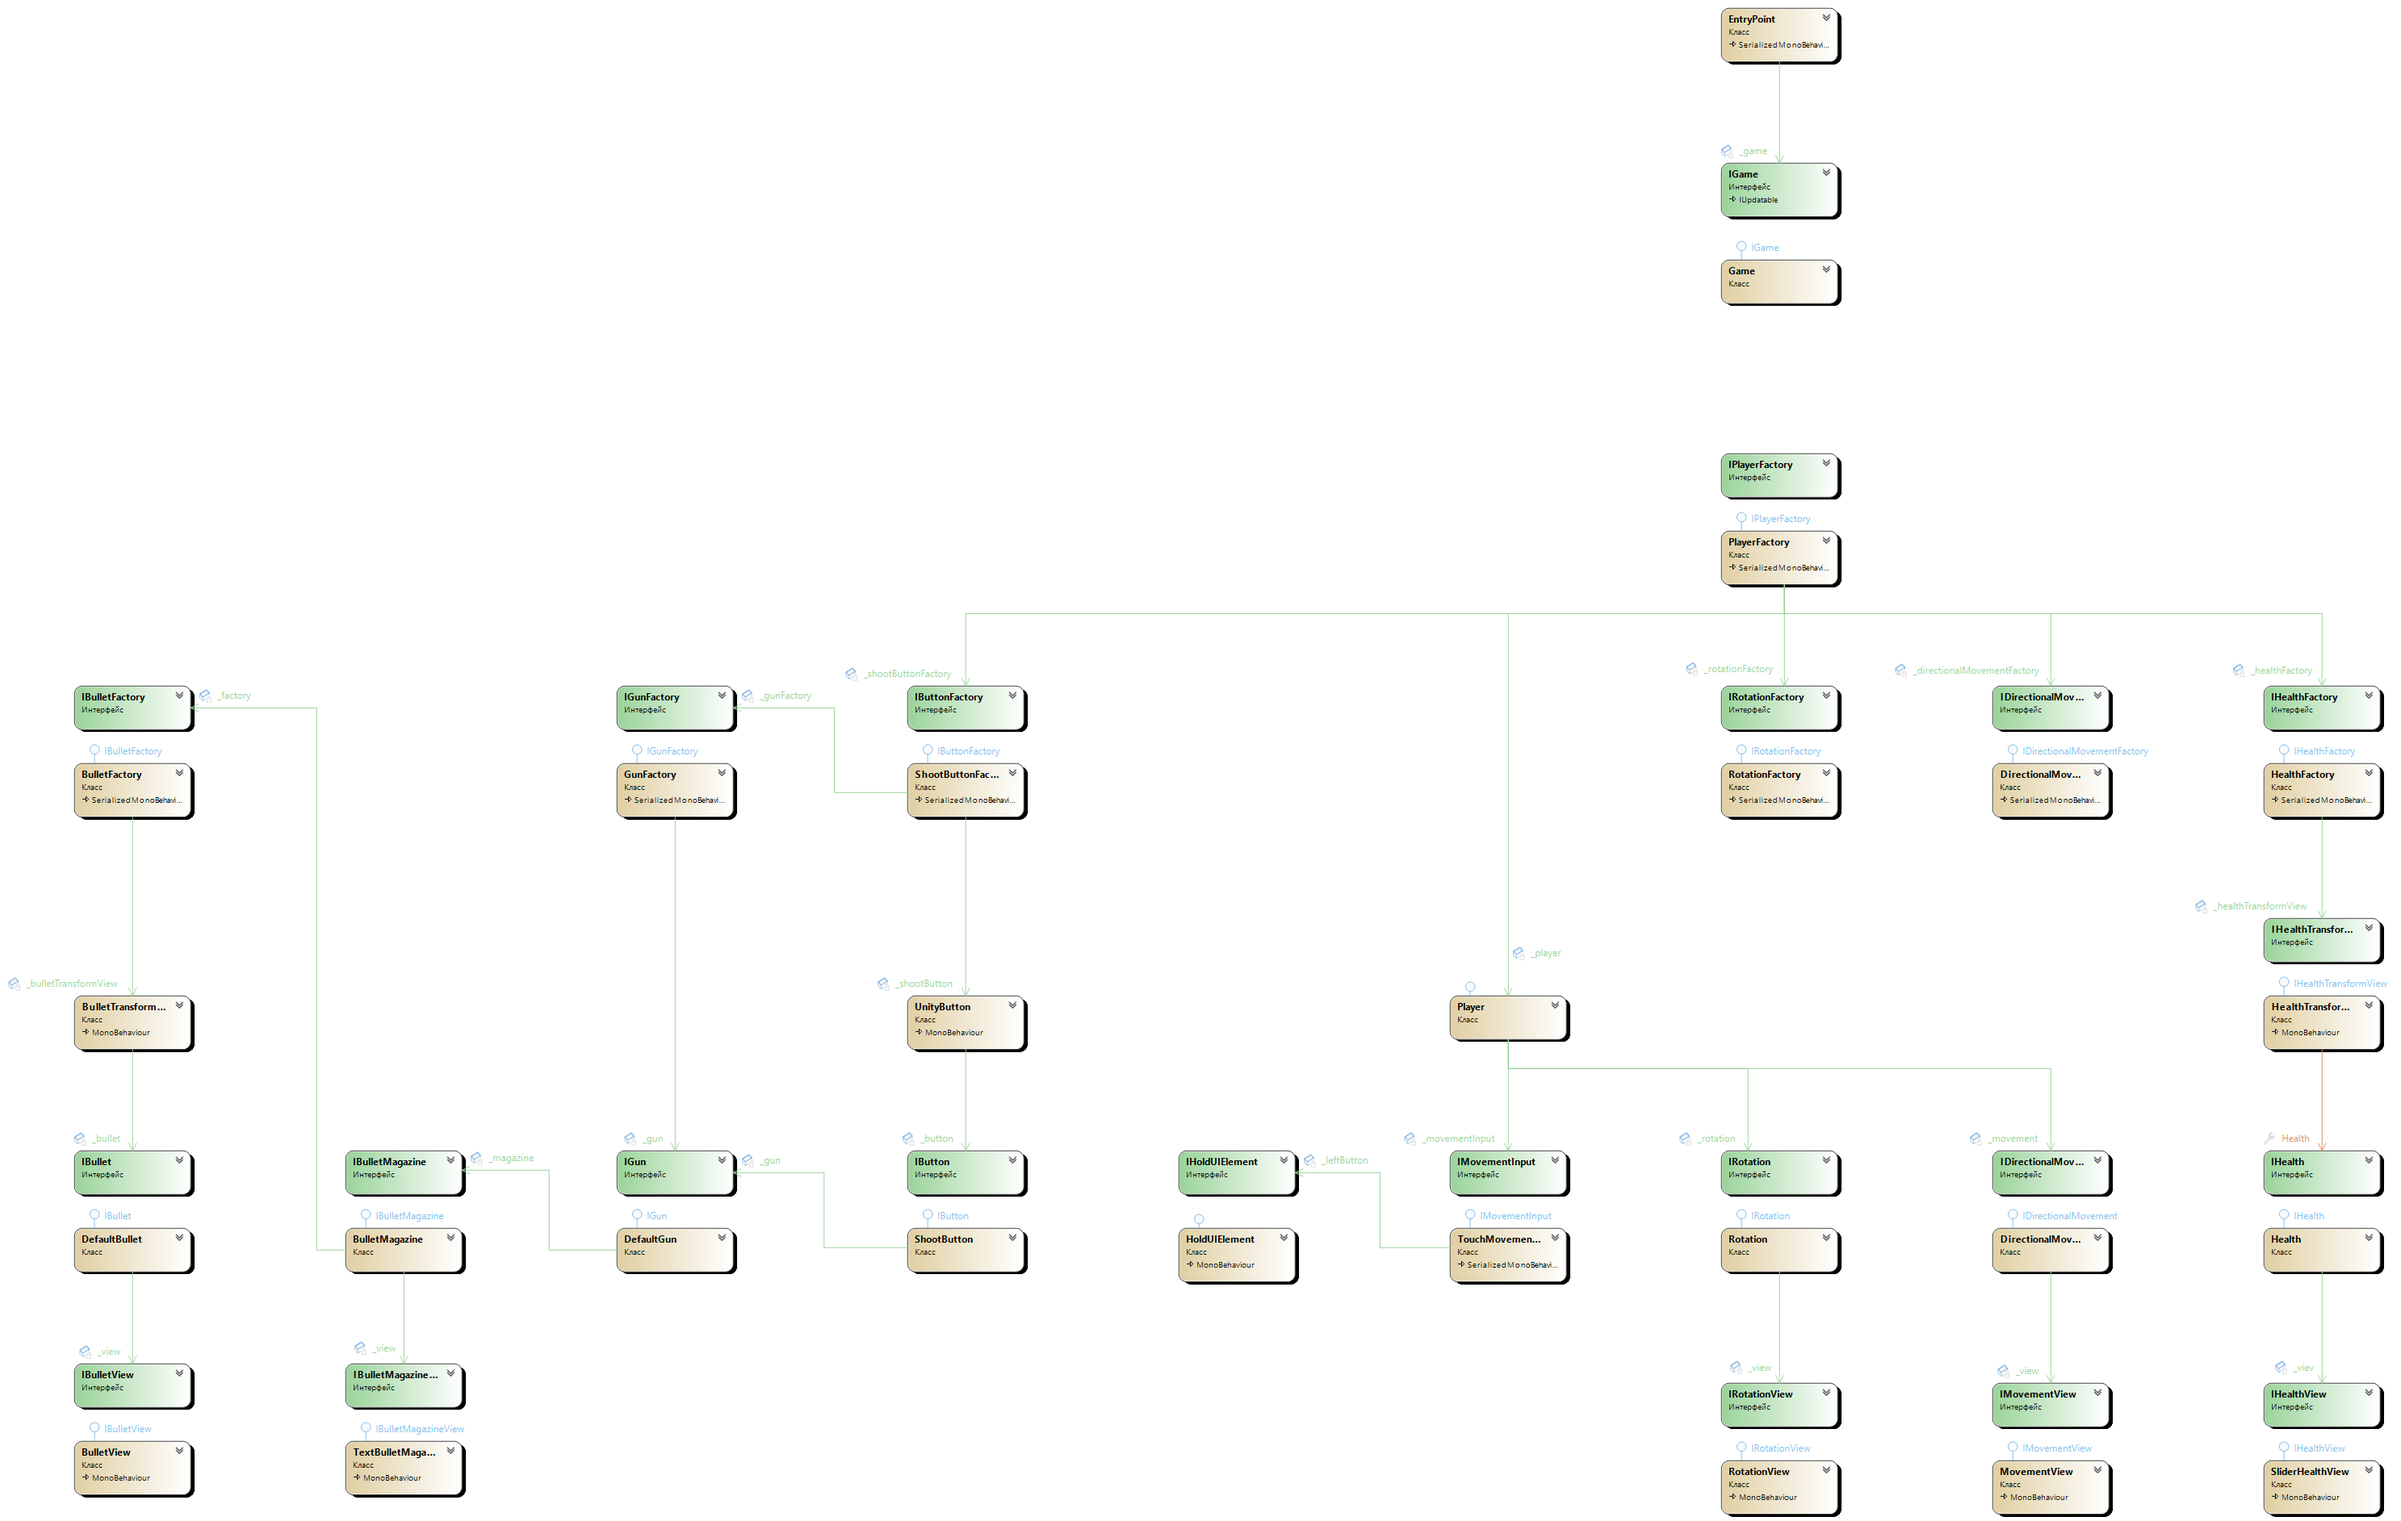
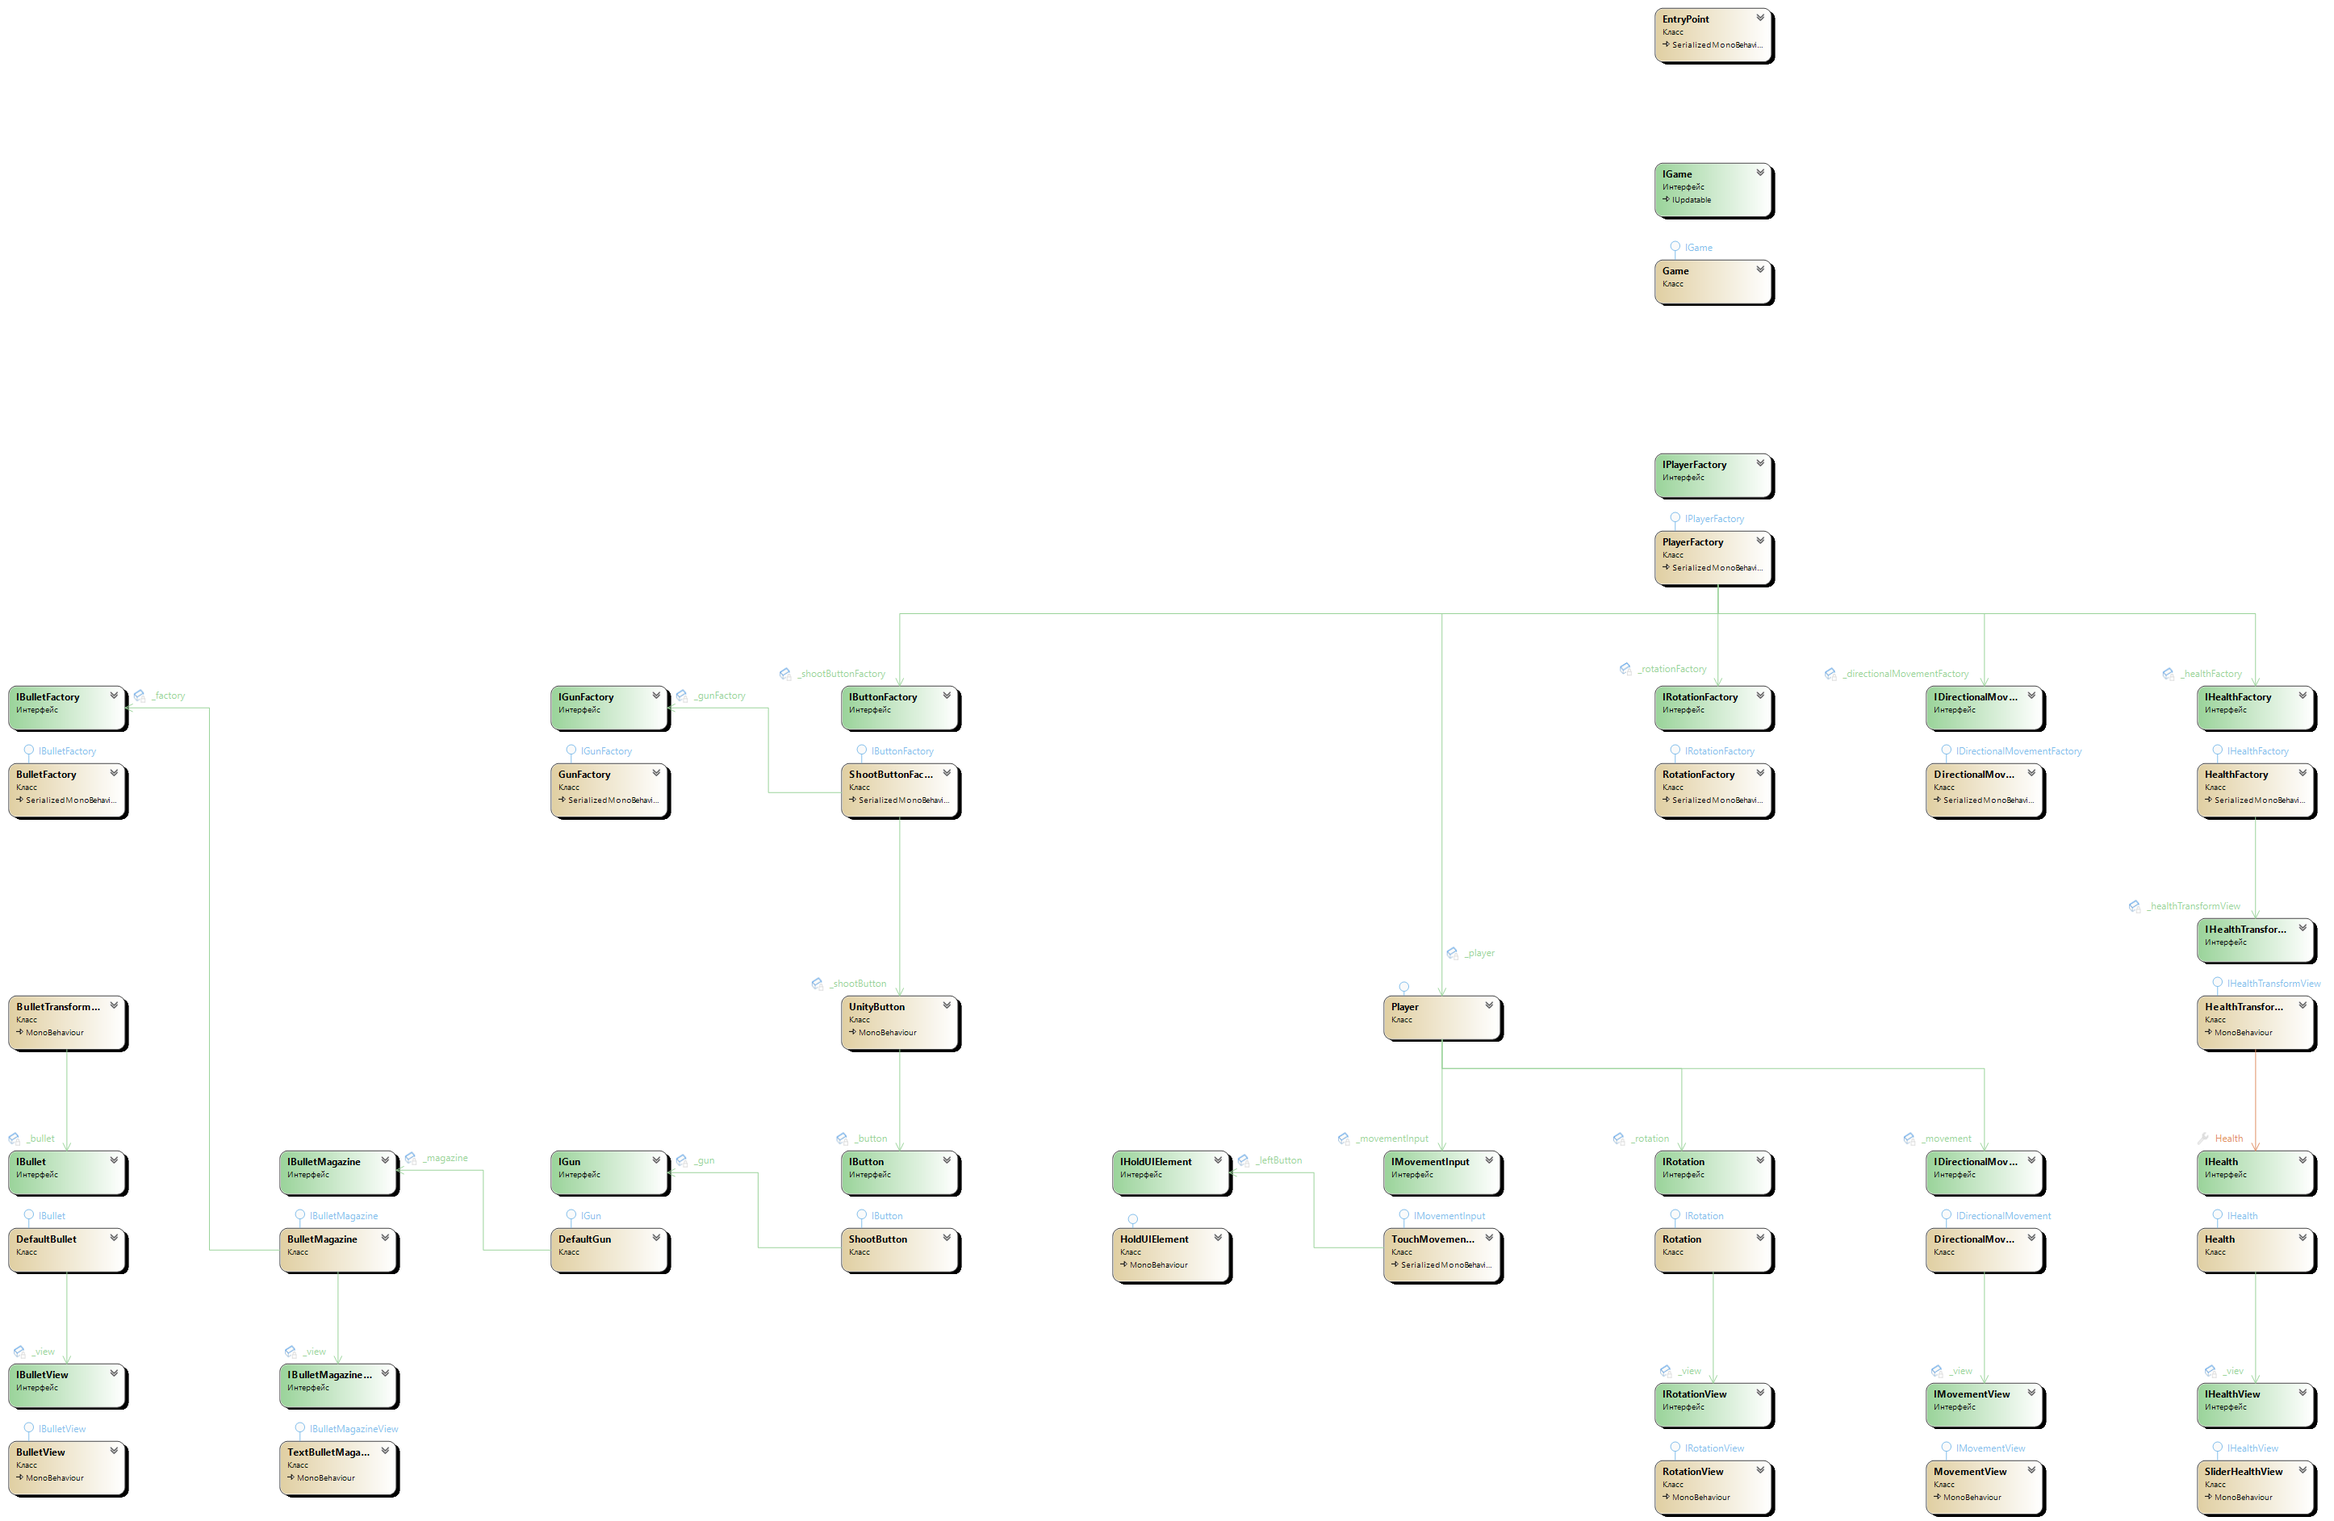
Small code redesign

diff --git a/Assets/Source/Runtime/Model/Gun/Gun.cs b/Assets/Source/Runtime/Model/Gun/Gun.cs
@@ -3,11 +3,13 @@ using UnityEngine;
 using Cysharp.Threading.Tasks;
 using UnityEngine.EventSystems;
 using Tanks.View.Gun;
+using Tanks.Factories;
 
 namespace Tanks.Model.Gun
 {
-	public class DefaultGun : IGun
+	public class Gun : IGun
 	{
+		private readonly IBulletFactory _bulletFactory;
 		private readonly IBulletMagazine _magazine;
 		private readonly IGunView _view;
 		private readonly float _shootDelay;
@@ -15,7 +17,7 @@ namespace Tanks.Model.Gun
 		
 		public bool CanShoot { get; private set; }
 
-		public DefaultGun(IGunView view, IBulletMagazine magazine, float reloadDelay, float shootDelay)
+		public Gun(IGunView view, IBulletMagazine magazine, float reloadDelay, float shootDelay)
 		{
 			if(shootDelay < 0)
 				throw new ArgumentOutOfRangeException(nameof(shootDelay));
@@ -37,8 +39,10 @@ namespace Tanks.Model.Gun
 
 			if (_magazine.CanTakeBullet())
 			{
-				_magazine.TakeBullet().Throw(direction);
+				_bulletFactory.Create().Throw(direction);
+				_magazine.TakeBullet();
 				_view.Visualize();
+
 				StartRollback();
 			}
 			if(!_magazine.CanTakeBullet())

diff --git a/Assets/Source/Runtime/Model/Gun/GunWithShootDelay.cs b/Assets/Source/Runtime/Model/Gun/GunWithShootDelay.cs
@@ -1,0 +1,42 @@
+using System;
+using UnityEngine;
+using Cysharp.Threading.Tasks; 
+
+namespace Tanks.Model.Gun
+{
+	public class GunWithShootDelay : IGun
+	{
+		public bool CanShoot => _gun.CanShoot && !_isDelaying;
+		
+		private readonly float _delay;
+		private readonly IGun _gun;
+
+		private bool _isDelaying;
+
+		public GunWithShootDelay(float delay, IGun gun)
+		{
+			if(delay <= 0)
+				throw new ArgumentOutOfRangeException(nameof(delay));
+
+			_gun = gun ?? throw new ArgumentNullException(nameof(gun));
+			_isDelaying = false;
+			_delay = delay;
+		}
+
+		public void Shoot(Vector2 direction)
+		{
+			if(!CanShoot) 
+				throw new ArgumentNullException(nameof(CanShoot));
+
+			_gun.Shoot(direction);
+			StartDelay();
+		}
+
+		private async void StartDelay()
+		{
+			_isDelaying = true;
+			await UniTask.Delay(TimeSpan.FromSeconds(_delay));
+			_isDelaying = false;
+		}
+	}
+}

diff --git a/Assets/Source/Runtime/Model/Gun/Magazine/BulletMagazine.cs b/Assets/Source/Runtime/Model/Gun/Magazine/BulletMagazine.cs
@@ -10,7 +10,6 @@ namespace Tanks.Model.Gun.Magazine
 {
 	public class BulletMagazine : IBulletMagazine
 	{
-		private readonly IBulletFactory _factory;
 		private readonly int _capacity;
 		private readonly IBulletMagazineView _view;
 
@@ -21,20 +20,17 @@ namespace Tanks.Model.Gun.Magazine
 			if(capacity <= 0)
 				throw new ArgumentOutOfRangeException(nameof(capacity));
 
-			_factory = factory ?? throw new ArgumentNullException(nameof(factory));
 			_view = view ?? throw new ArgumentNullException(nameof(view));
 			_capacity = _currentBulletsCount = capacity;
 		}
 
-		public IBullet TakeBullet()
+		public void TakeBullet()
 		{
 			if(!CanTakeBullet())
 				throw new InvalidOperationException();
 
 			_currentBulletsCount--;
 			_view.Visualize(_currentBulletsCount, _capacity);
-
-			return _factory.Create();
 		}
 
 		public bool CanTakeBullet()

diff --git a/Assets/Source/Runtime/Model/Gun/GunWithReload.cs b/Assets/Source/Runtime/Model/Gun/GunWithReload.cs
@@ -1,0 +1,29 @@
+using Cysharp.Threading.Tasks;
+using System;
+using UnityEngine;
+
+namespace Tanks.Model.Gun
+{
+	public class GunWithReload : IGun
+	{
+		public bool CanShoot => _gun.CanShoot && !_isReloading;
+
+		private readonly float _reloadTime;
+		private readonly IGun _gun;
+
+		private bool _isReloading;
+
+		public void Shoot(Vector2 direction)
+		{
+			_gun.Shoot(direction);
+		}
+
+		private async void StartReload()
+		{
+			_isReloading = true;
+			await UniTask.Delay(TimeSpan.FromSeconds(_reloadTime));
+			_isReloading = false;
+		}
+		//not finished
+	}
+}

diff --git a/Assets/Source/Runtime/Game/GameEnd/IGameEnd.cs b/Assets/Source/Runtime/Game/GameEnd/IGameEnd.cs
@@ -3,13 +3,11 @@ using System.Collections.Generic;
 using System.Linq;
 using System.Text;
 using System.Threading.Tasks;
+using Tanks.Tools.SystemUpdates;
 
-namespace Tanks.Model.Gun
+namespace Tanks.Game
 {
-	public interface IBulletMagazine
+	public interface IGameEnd : IUpdatable
 	{
-		void TakeBullet();
-		void Fill();
-		bool CanTakeBullet();
 	}
 }

diff --git a/Assets/Source/Runtime/Factories/Gun/GunFactory.cs b/Assets/Source/Runtime/Factories/Gun/GunFactory.cs
@@ -22,7 +22,7 @@ namespace Tanks.Factories.Gun
 		public IGun Create()
 		{
 			_magazine = new BulletMagazine(_magazineView, _bulletFactory, _magazineCapacity);
-			_gun = new DefaultGun(_gunView, _magazine, _reloadDelay, _shootDelay);
+			_gun = new Model.Gun.Gun(_gunView, _magazine, _reloadDelay, _shootDelay);
 
 			return _gun;
 		}

diff --git a/Assets/Source/Runtime/Model/Gun/IGun.cs b/Assets/Source/Runtime/Model/Gun/IGun.cs
@@ -1,16 +1,10 @@
-using System;
-using System.Collections.Generic;
-using System.Linq;
-using System.Text;
-using System.Threading.Tasks;
-using UnityEngine;
+using UnityEngine;
 
 namespace Tanks.Model.Gun
 {
 	public interface IGun
 	{
 		void Shoot(Vector2 direction);
-		void Reload();
 		bool CanShoot { get; }
 	}
 }
